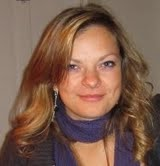
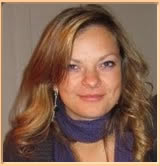
changed style sheet to jm to try it out

Changed region(s): [[0.0, 0.0, 1.0, 1.0]]

diff --git a/index.html b/index.html
@@ -15,7 +15,7 @@ carrying out post Doctorate research at Imperial College, London." >
 <div class ="content" > <a name="top"></a>
 <div class = "header">
 <a href="mailto:c.merrifield07@imperial.ac.uk "
-Title="Claire Email"><img src="Claire.png" alt="Claire Email" id="claire"></a>
+Title="Claire Email"><img src="Claire.jpg" alt="Claire Email" id="claire"></a>
 
 
 

diff --git a/cm1.css b/cm1.css
@@ -46,7 +46,6 @@ div.links a:hover {
 	color: #F93; border-color: #F93;
 }
 image#claire {
- border: 2px solid #FFCC99;
 }
 imge#chalint {
 	float:left;
